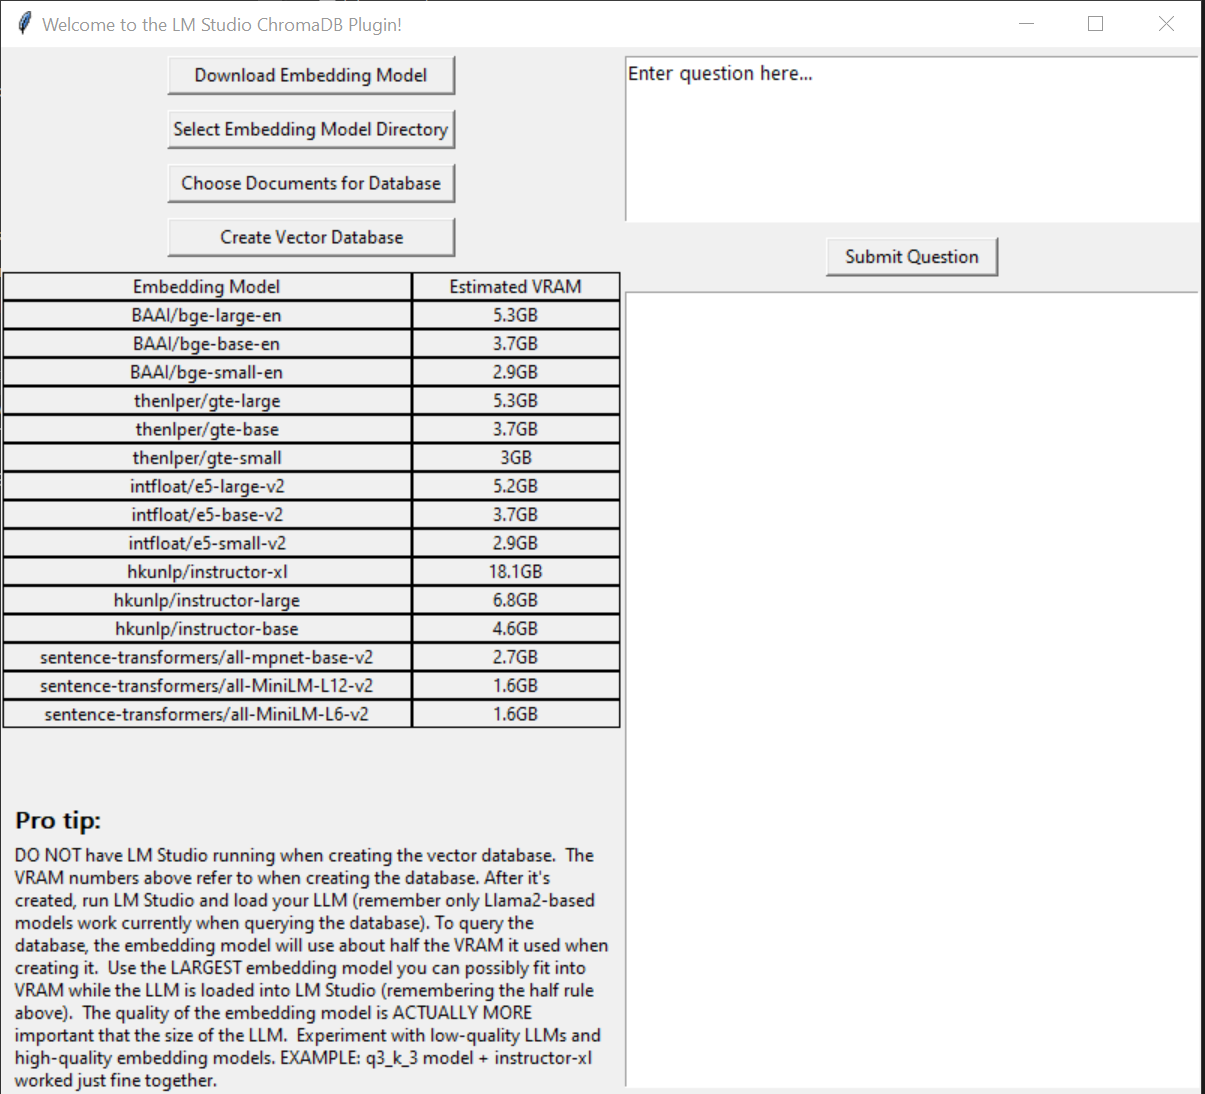
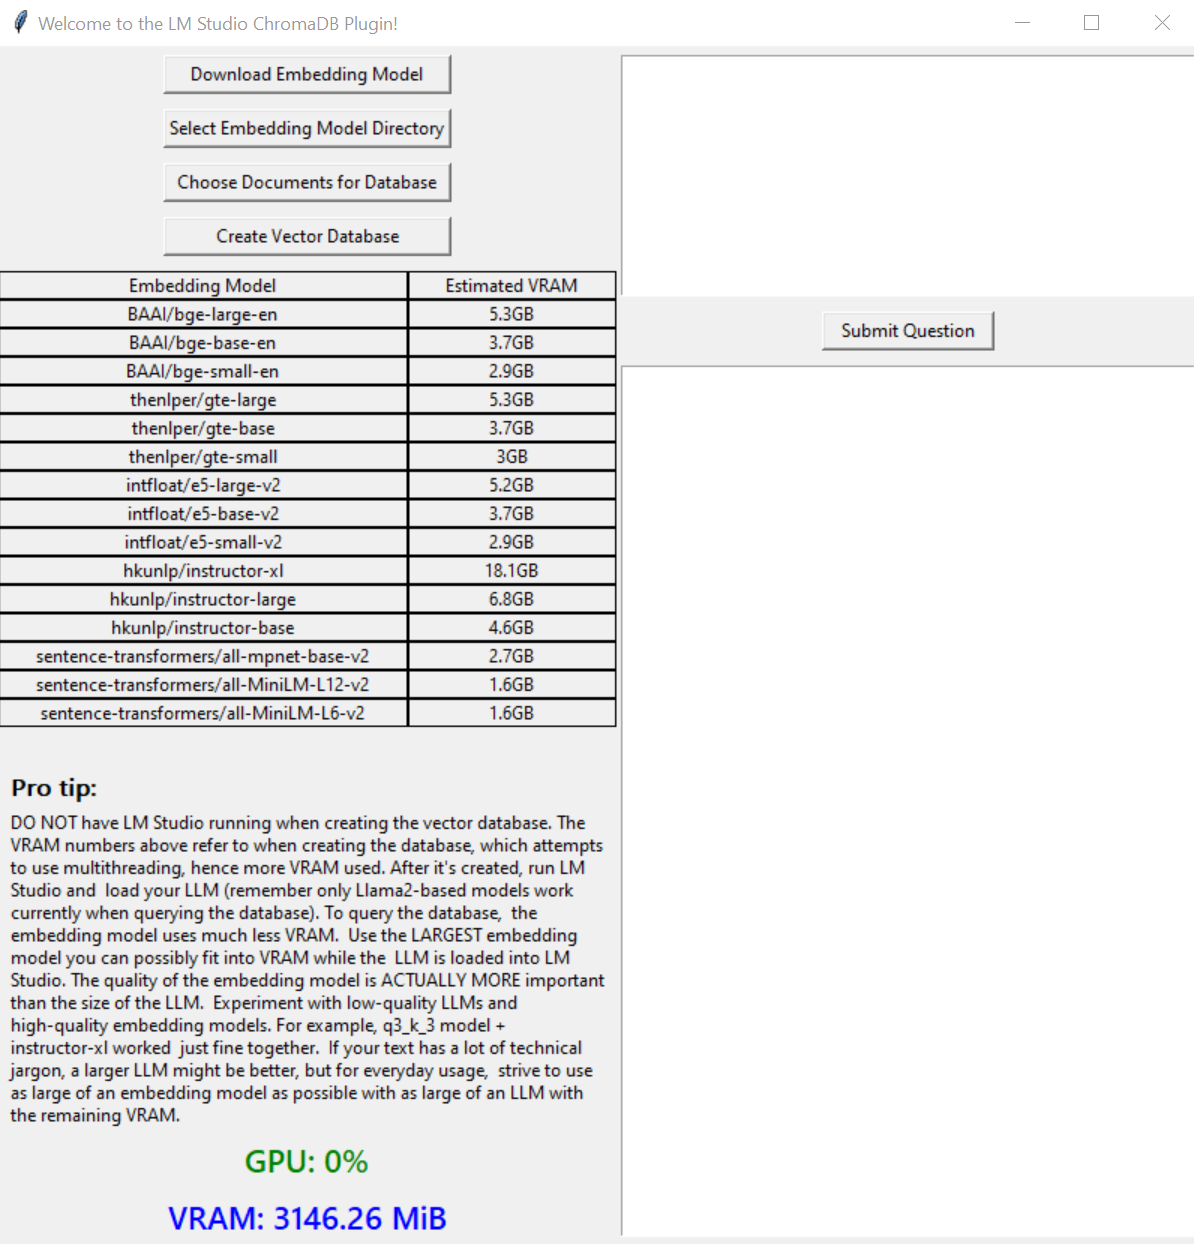
Version 1.4.1 files.
Version 1.4.1 files.

Changed region(s): [[0.0, 0.0, 0.5268, 1.0], [0.4958, 0.0, 1.0, 1.0], [0.6817, 0.2176, 0.8367, 0.3108]]

diff --git a/gui_logic.py b/gui_logic.py
@@ -8,6 +8,7 @@ from gui import DocQA_GUI
 from server_connector import interact_with_chat
 import subprocess
 import server_connector
+import threading
 
 def load_config():
     with open("config.yaml", 'r') as stream:
@@ -54,10 +55,13 @@ class DocQA_Logic:
         
         if selected_model:
             model_url = f"https://huggingface.co/{selected_model}"
-            
             target_directory = os.path.join("Embedding_Models", selected_model.replace("/", "--"))
             
-            subprocess.run(["git", "clone", model_url, target_directory])
+            def download_model():
+                subprocess.run(["git", "clone", model_url, target_directory])
+                
+            download_thread = threading.Thread(target=download_model)
+            download_thread.start()
 
     def select_embedding_model_directory(self):
         initial_dir = 'Embedding_Models' if os.path.exists('Embedding_Models') else os.path.expanduser("~")
@@ -101,7 +105,12 @@ class DocQA_Logic:
         
         if response:
             embedding_model_path = getattr(self, "embedding_model_directory", "")
-            os.system(f'python ingest_improved.py "{embedding_model_path}"')
+            
+            def run_create_chromadb(embedding_model_path):
+                os.system(f'python ingest_improved.py "{embedding_model_path}"')
+            
+            create_chromadb_thread = threading.Thread(target=run_create_chromadb, args=(embedding_model_path,))
+            create_chromadb_thread.start()
 
     def submit_query(self):
         current_dir = os.path.dirname(os.path.realpath(__file__))
@@ -120,11 +129,18 @@ class DocQA_Logic:
             return
 
         query = self.gui.text_input.get("1.0", tk.END).strip()
-        answer = interact_with_chat(query)
-        self.gui.read_only_text.config(state=tk.NORMAL)
-        self.gui.read_only_text.delete("1.0", tk.END)
-        self.gui.read_only_text.insert(tk.END, answer)
-        self.gui.read_only_text.config(state=tk.DISABLED)
+
+        # Move the chat interaction logic to a separate function
+        def interact_with_chat_and_update_gui(query):
+            answer = interact_with_chat(query)
+            self.gui.read_only_text.config(state=tk.NORMAL)
+            self.gui.read_only_text.delete("1.0", tk.END)
+            self.gui.read_only_text.insert(tk.END, answer)
+            self.gui.read_only_text.config(state=tk.DISABLED)
+
+        # Create a thread for chat interaction and GUI update
+        chat_thread = threading.Thread(target=interact_with_chat_and_update_gui, args=(query,))
+        chat_thread.start()
 
 if __name__ == "__main__":
     root = tk.Tk()

diff --git a/gui_table.py b/gui_table.py
@@ -31,12 +31,13 @@ def create_table(parent_frame):
 
     pro_tip_text = (
         "DO NOT have LM Studio running when creating the vector database. The VRAM numbers above refer to when creating "
-        "the database. After it's created, run LM Studio and load your LLM (remember only Llama2-based models work "
-        "currently when querying the database). To query the database, the embedding model will use about half the VRAM "
-        "it used when creating it. Use the LARGEST embedding model you can possibly fit into VRAM while the LLM is loaded "
-        "into LM Studio (remembering the half rule above). The quality of the embedding model is ACTUALLY MORE important "
-        "than the size of the LLM. Experiment with low-quality LLMs and high-quality embedding models. EXAMPLE: q3_k_3 "
-        "model + instructor-xl worked just fine together."
+        "the database, which attempts to use multithreading, hence more VRAM used. After it's created, run LM Studio and "
+        " load your LLM (remember only Llama2-based models work currently when querying the database). To query the database, "
+        " the embedding model uses much less VRAM.  Use the LARGEST embedding model you can possibly fit into VRAM while the "
+        " LLM is loaded into LM Studio. The quality of the embedding model is ACTUALLY MORE important than the size of the LLM. "
+        " Experiment with low-quality LLMs and high-quality embedding models. For example, q3_k_3 model + instructor-xl worked "
+        " just fine together.  If your text has a lot of technical jargon, a larger LLM might be better, but for everyday usage, "
+        " strive to use as large of an embedding model as possible with as large of an LLM with the remaining VRAM."
     )
 
     pro_tip_description = tk.Label(parent_frame, text=pro_tip_text, wraplength=400, justify="left")

diff --git a/nvml.py b/nvml.py
@@ -1,7 +1,6 @@
 from pynvml import *
 from multiprocessing import Process, Pipe, Event
 import time
-import tkinter as tk
 
 def monitor_nvml(pipe, stop_event):
     nvmlInit()
@@ -35,23 +34,20 @@ def stop_monitoring(p, stop_event):
     p.join()
 
 class CudaVramLogic:
-    def __init__(self, label, root):
-        self.cuda_info_label = label
+    def __init__(self, vram_label, gpu_label, root):
+        self.vram_label = vram_label
+        self.gpu_label = gpu_label
         self.root = root
         self.parent_conn, self.process, self.stop_event = start_monitoring()
-        self.update_cuda_info()
+        self.update_info()
 
-    def update_cuda_info(self):
+    def update_info(self):
         if self.parent_conn.poll():
             memory_used_str, gpu_utilization = self.parent_conn.recv()
-            info_text = f"Memory Used: {memory_used_str} | GPU Utilization: {gpu_utilization}"
-            self.cuda_info_label.config(text=info_text)
-        self.root.after(500, self.update_cuda_info)
+            self.vram_label.config(text=f"VRAM: {memory_used_str}")
+            self.gpu_label.config(text=f"GPU: {gpu_utilization}")
+        self.root.after(500, self.update_info)
 
     def stop_and_exit(self):
         stop_monitoring(self.process, self.stop_event)
         self.root.quit()
-
-# If the script is executed directly, it will just run without outputting any metrics.
-if __name__ == "__main__":
-    pass

diff --git a/gui.py b/gui.py
@@ -1,4 +1,5 @@
 import tkinter as tk
+from tkinter import font as tkfont
 from gui_table import create_table
 import threading
 from nvml import CudaVramLogic
@@ -41,9 +42,17 @@ class DocQA_GUI:
         self.create_chromadb_button.pack(pady=5)
 
         create_table(left_frame)
+        
+        # GPU label
+        self.gpu_info_label = tk.Label(left_frame, font=("Segoe UI Semibold", 16), foreground='green')
+        self.gpu_info_label.pack(pady=1)
+        
+        # VRAM label
+        self.vram_info_label = tk.Label(left_frame, font=("Segoe UI Semibold", 16), foreground='blue')
+        self.vram_info_label.pack(pady=1)
 
-        self.cuda_info_label = tk.Label(left_frame, text="CUDA & VRAM Info", font=("Segoe UI Historic", 10))
-        self.cuda_info_label.pack(pady=5)
+        # Adjust CudaVramLogic initialization:
+        self.cuda_logic = CudaVramLogic(self.vram_info_label, self.gpu_info_label, self.root)
 
         main_pane.add(left_frame)
 
@@ -74,8 +83,6 @@ class DocQA_GUI:
         scroll2 = tk.Scrollbar(bottom_frame, command=self.read_only_text.yview)
         scroll2.pack(side=tk.RIGHT, fill=tk.Y)
         self.read_only_text.config(yscrollcommand=scroll2.set)
-
-        self.cuda_logic = CudaVramLogic(self.cuda_info_label, self.root)
 
         self.center_window(root)
 

diff --git a/document_loader.py b/document_loader.py
@@ -41,22 +41,29 @@ def load_single_document(file_path: str) -> Document:
     return loader.load()[0]
 
 def load_document_batch(filepaths):
+    
     with ThreadPoolExecutor(len(filepaths)) as exe:
         futures = [exe.submit(load_single_document, name) for name in filepaths]
         data_list = [future.result() for future in futures]
-        return (data_list, filepaths)
+    
+    return (data_list, filepaths)
 
 def load_documents(source_dir: str) -> list[Document]:
+    
     all_files = os.listdir(source_dir)
     paths = [os.path.join(source_dir, file_path) for file_path in all_files if os.path.splitext(file_path)[1] in DOCUMENT_MAP.keys()]
     
     n_workers = min(INGEST_THREADS, max(len(paths), 1))
     chunksize = round(len(paths) / n_workers)
     docs = []
+    
     with ProcessPoolExecutor(n_workers) as executor:
         futures = [executor.submit(load_document_batch, paths[i : (i + chunksize)]) for i in range(0, len(paths), chunksize)]
         for future in as_completed(futures):
             contents, _ = future.result()
             docs.extend(contents)
-
+    
     return docs
+
+if __name__ == "__main__":
+    load_documents(SOURCE_DIRECTORY)

diff --git a/ingest_improved.py b/ingest_improved.py
@@ -1,6 +1,5 @@
 import logging
 import os
-import sys
 import shutil
 import torch
 import yaml
@@ -45,7 +44,7 @@ def main():
             model_kwargs={"device": COMPUTE_DEVICE},
         )
     
-    # Delete current vector database before creating new one
+    # Delete the current vector database before creating a new one
     if os.path.exists(PERSIST_DIRECTORY):
         shutil.rmtree(PERSIST_DIRECTORY)
         os.makedirs(PERSIST_DIRECTORY)
@@ -63,4 +62,5 @@ if __name__ == "__main__":
     logging.basicConfig(
         format="%(asctime)s - %(levelname)s - %(filename)s:%(lineno)s - %(message)s", level=logging.INFO
     )
+    
     main()

diff --git a/document_chunker.py b/document_chunker.py
@@ -1,8 +1,7 @@
 from langchain.text_splitter import RecursiveCharacterTextSplitter
 
 def split_documents(documents):
-
     text_splitter = RecursiveCharacterTextSplitter(chunk_size=1200, chunk_overlap=400)
     texts = text_splitter.split_documents(documents)
+    
     return texts
-
